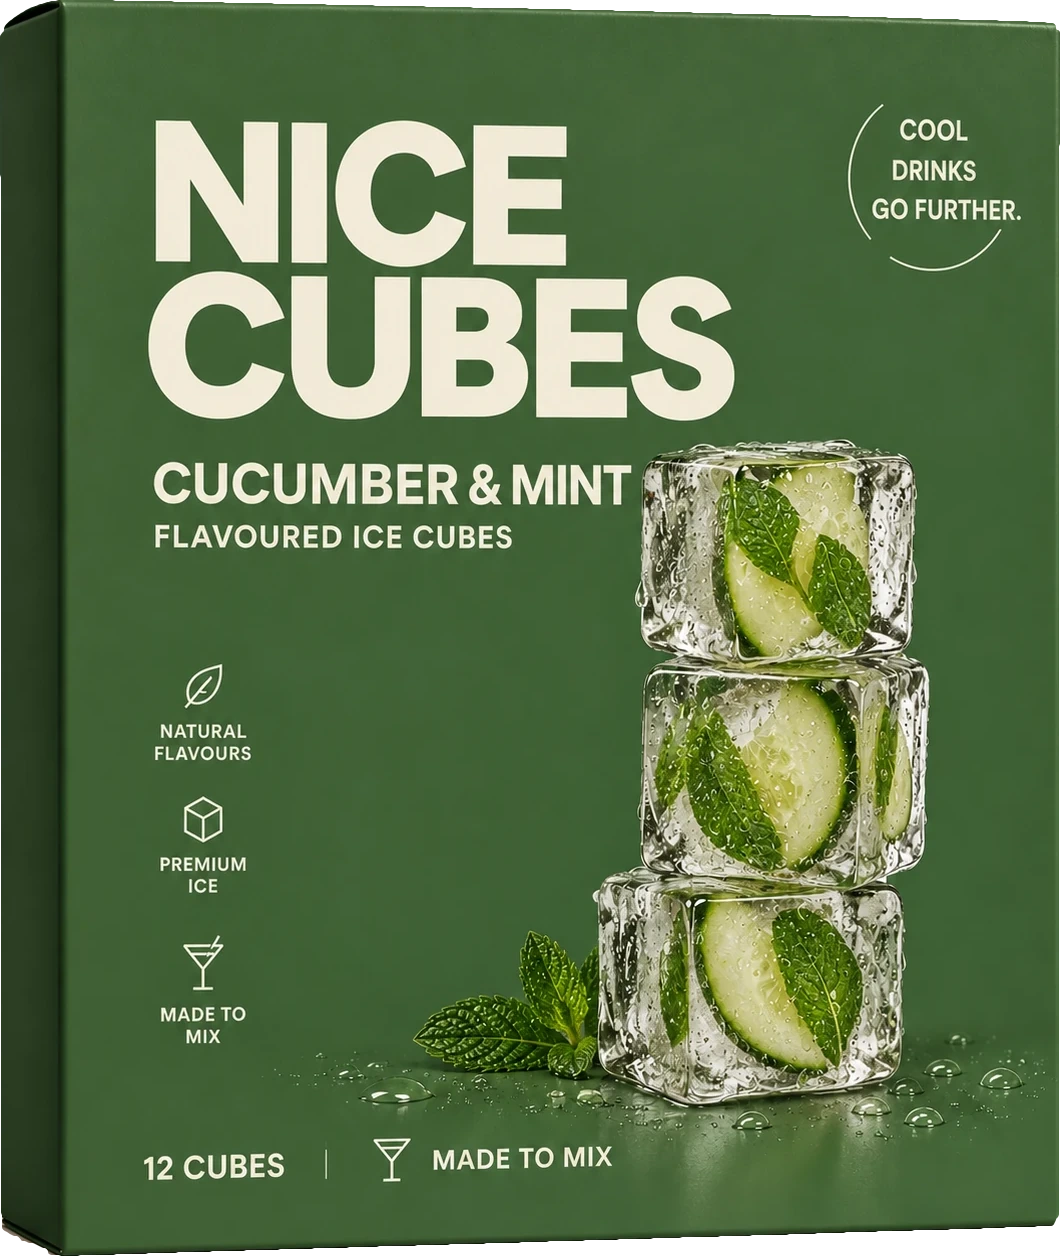
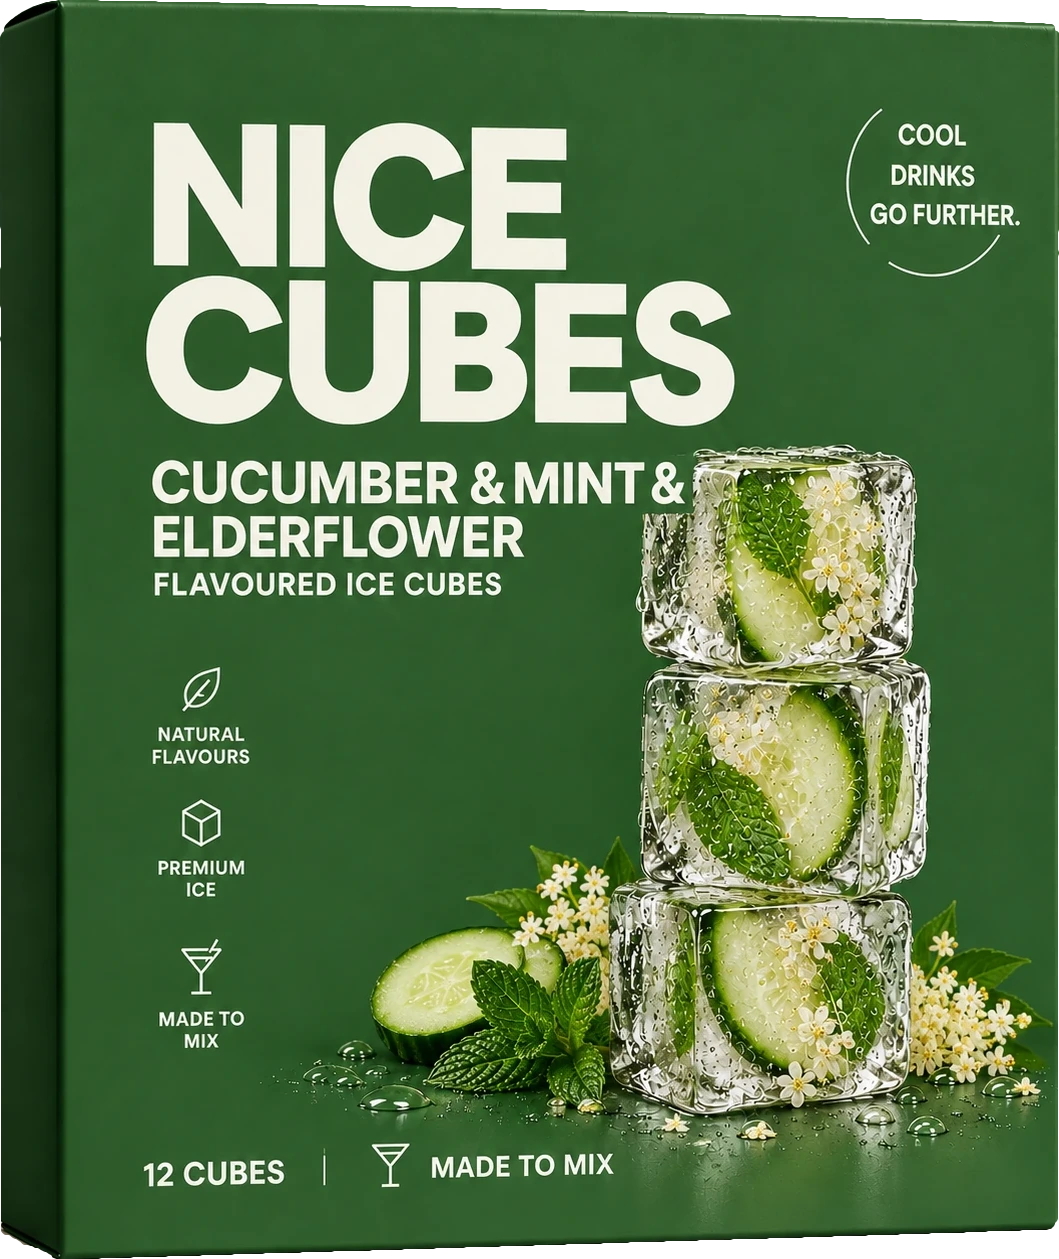
Use Cucumber, Mint & Elderflower box, restore original card names, float ingredient photo

diff --git a/index.html b/index.html
@@ -8,7 +8,7 @@
 <link rel="preconnect" href="https://fonts.googleapis.com">
 <link rel="preconnect" href="https://fonts.gstatic.com" crossorigin>
 <link href="https://fonts.googleapis.com/css2?family=Hanken+Grotesk:wght@400;500;700;900&display=swap" rel="stylesheet">
-<link rel="stylesheet" href="style.css?v=11">
+<link rel="stylesheet" href="style.css?v=12">
 </head>
 <body>
 
@@ -72,7 +72,7 @@
   </section>
 
   <section class="ingredient">
-    <img class="ingredient__img" src="images/ingredient-cucumber-mint-box.webp" alt="Nice Cubes Cucumber &amp; Mint flavoured ice cubes box, with three ice cubes containing cucumber and mint">
+    <img class="ingredient__img" src="images/ingredient-cucumber-mint-box.webp?v=3" alt="Nice Cubes Cucumber, Mint &amp; Elderflower flavoured ice cubes box, with ice cubes containing cucumber, mint and elderflower">
     <div class="ingredient__text">
       <h2 class="h2">Ice is an ingredient.</h2>
       <p class="lede">Most ice is an afterthought, a diluting inconvenience at the bottom of the glass. We started Nice Cubes to make ice something you actually notice: clean flavour, considered design, built to be photographed, shared, and remembered.</p>
@@ -103,16 +103,16 @@
           <span class="flavour-dot" style="background:#C5341B;"></span>
           <span class="flavour-dot" style="background:#C8F902;"></span>
         </div>
-        <div class="flavour-card__name">Lime &amp; Chilli</div>
+        <div class="flavour-card__name">Chilli &amp; Lime</div>
       </div>
 
       <div class="flavour-card">
-        <img class="flavour-card__img" src="images/flavour-cucumber-mint.webp?v=2" alt="Nice Cubes Cucumber &amp; Mint flavoured ice cubes box, with ice cubes containing cucumber and mint" loading="lazy" decoding="async">
+        <img class="flavour-card__img" src="images/flavour-cucumber-mint.webp?v=3" alt="Nice Cubes Cucumber, Mint &amp; Elderflower flavoured ice cubes box, with ice cubes containing cucumber, mint and elderflower" loading="lazy" decoding="async">
         <div class="flavour-card__swatches">
           <span class="flavour-dot" style="background:#E9E4C9;"></span>
           <span class="flavour-dot" style="background:#7FAE86;"></span>
         </div>
-        <div class="flavour-card__name">Cucumber &amp; Mint</div>
+        <div class="flavour-card__name">Elderflower, Mint &amp; Cucumber</div>
       </div>
 
       <div class="flavour-card">

diff --git a/style.css b/style.css
@@ -285,9 +285,8 @@ img { max-width: 100%; display: block; }
 .ingredient__img {
   width: 100%;
   height: auto;
-  aspect-ratio: 4 / 5;
-  object-fit: cover;
-  border-radius: var(--radius);
+  /* transparent cutout, so the box floats on the page like the hero */
+  filter: drop-shadow(0 34px 30px rgba(15, 14, 13, 0.3));
 }
 
 .principles {
